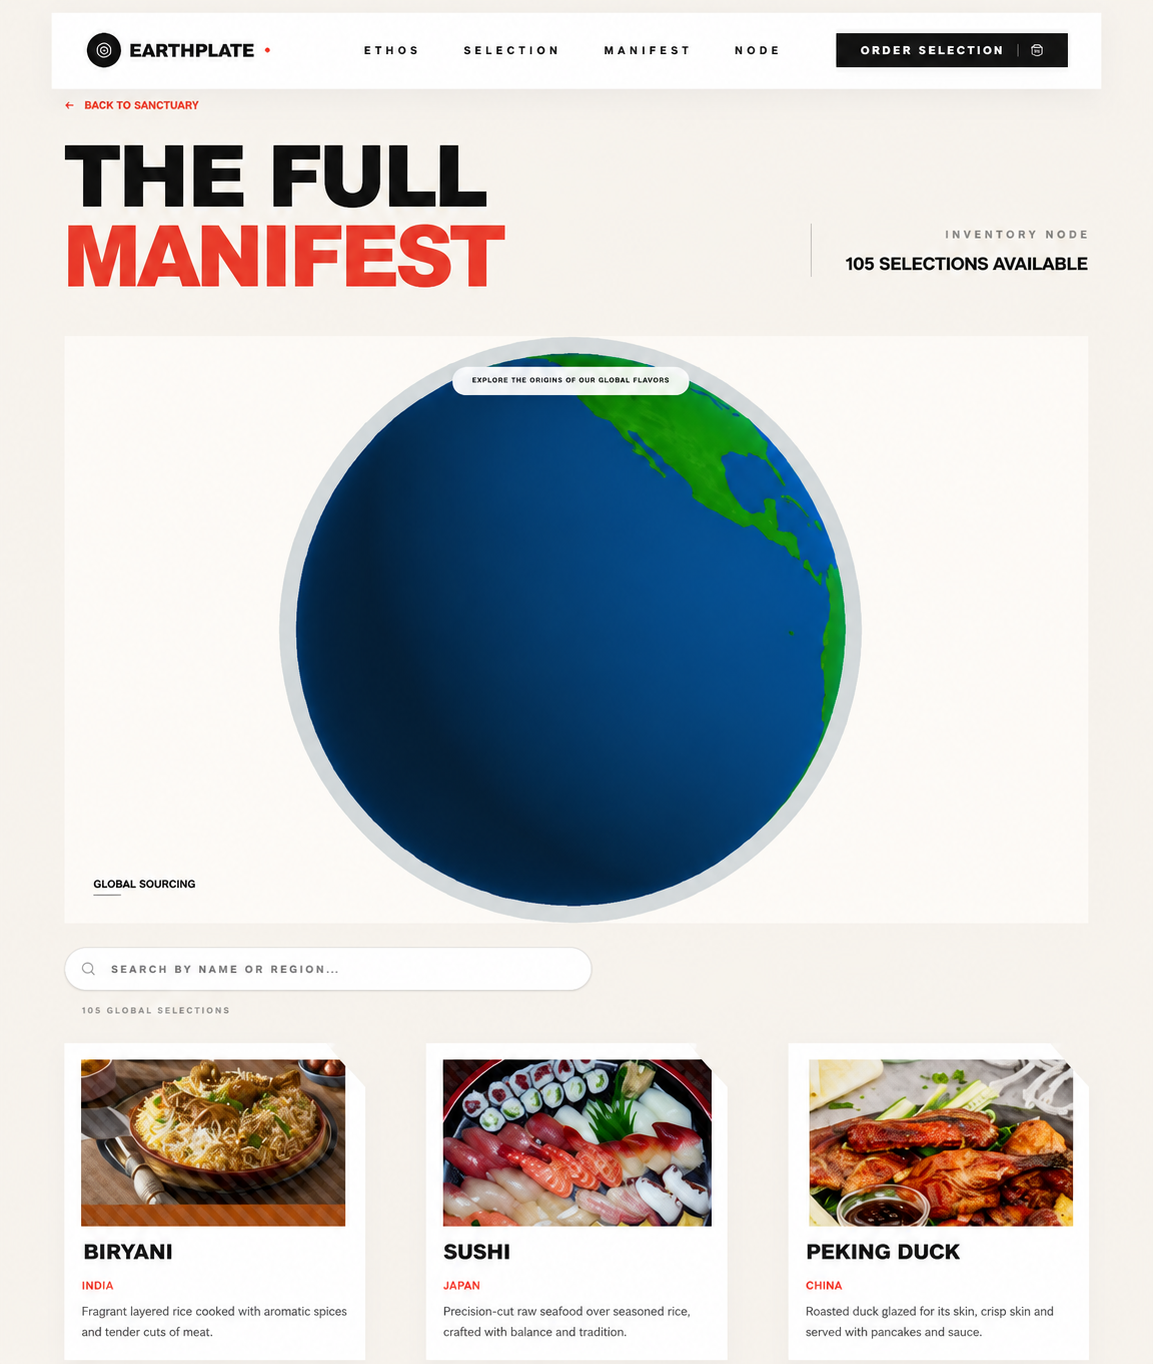
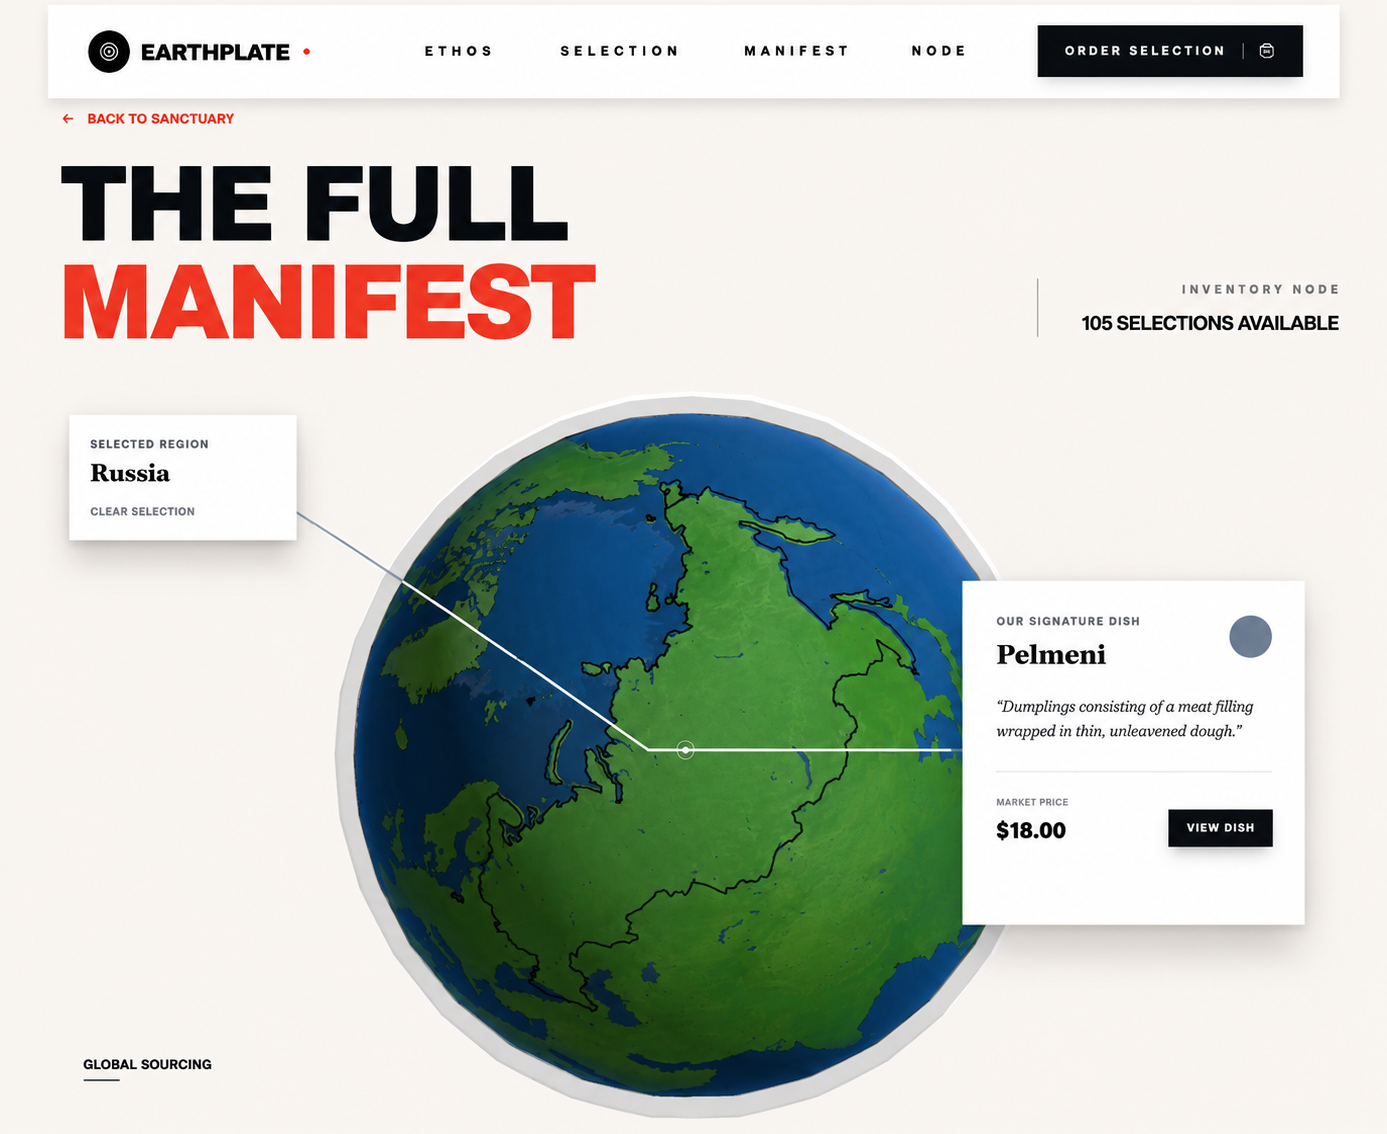
perfect v1

diff --git a/frontend/src/styles/project-detail.css b/frontend/src/styles/project-detail.css
@@ -489,24 +489,34 @@
     height: auto;
   }
   .lp-visual {
-    height: 550px;
-    padding: 4rem 2rem;
+    height: 620px;
+    padding: 2.5rem 2rem 0;
     background: #fafaf6;
     display: flex;
     align-items: center;
     justify-content: center;
   }
   .mockup-wrapper {
-    width: 260px;
-    max-width: 85%;
+    width: min(340px, 95%);
+    max-width: 95%;
     height: 100%;
     border: var(--border);
-    border-radius: 40px;
+    border-bottom: none;
+    border-radius: 40px 40px 0 0;
     margin: 0 auto;
     box-shadow: 0 20px 40px rgba(0,0,0,0.05);
     overflow: hidden; /* Fix: Clip inner content on mobile too */
     display: flex;
     flex-direction: column;
+  }
+  .mockup-body {
+    height: 100%;
+  }
+  .mockup-img {
+    width: 100%;
+    height: 100%;
+    object-fit: cover;
+    object-position: top;
   }
   .mockup-header {
     display: none;
@@ -541,5 +551,15 @@
   }
   .m-only {
     display: block;
+  }
+}
+
+@media (max-width: 640px) {
+  .lp-visual {
+    height: 560px;
+    padding: 1.5rem 1rem 0;
+  }
+  .mockup-wrapper {
+    border-radius: 30px 30px 0 0;
   }
 }